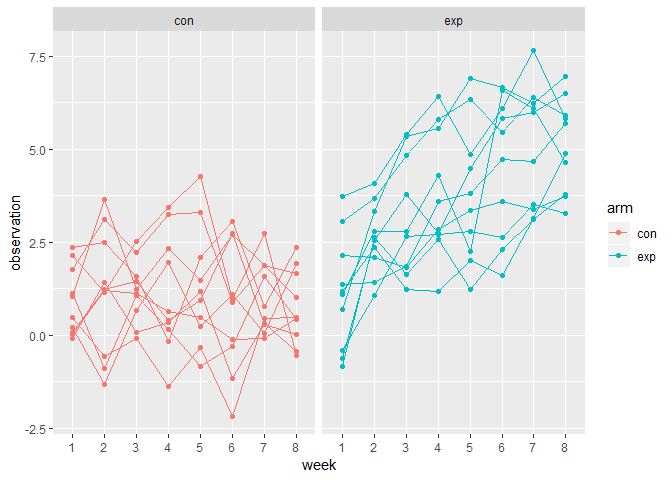
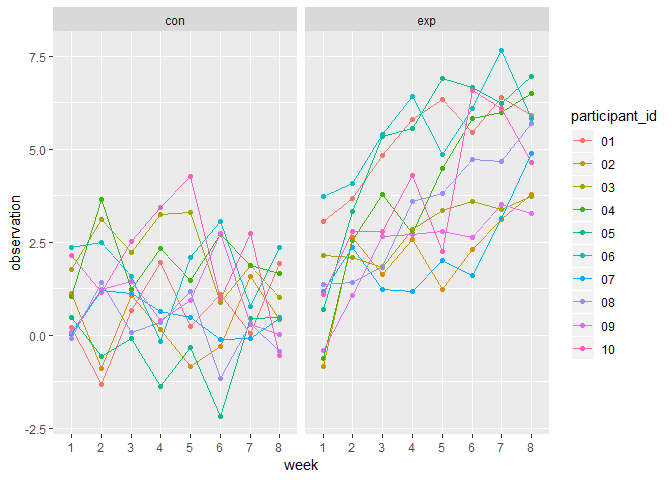
fixing problem 1 graph

diff --git a/p8105_hw5_as5457.md b/p8105_hw5_as5457.md
@@ -342,9 +342,9 @@ Make a spaghetti plot showing observations on each subject over time, and commen
 
 ``` r
 spaghetti = participants %>% 
-  mutate(participant_id = as.integer(participant_id),
+  mutate(participant_id = as.character(participant_id),
          arm = as.factor(arm)) %>% 
-  ggplot(aes(x = week, y = observation, color = arm, group = participant_id)) +
+  ggplot(aes(x = week, y = observation, color = participant_id, group = participant_id)) +
   geom_point() + 
   geom_line() +
   facet_grid(~arm)
@@ -395,4 +395,24 @@ homicide_totals = homicide_data %>%
   select(city_state, total_homicides, total_unsolved) %>% 
   unnest() %>% 
   mutate(total_homicides = n, total_unsolved = n1)
+homicide_total = homicide_totals %>% 
+  select(-n, -n1)
+homicide_total
 ```
+
+    ## # A tibble: 51 x 3
+    ##    city_state      total_homicides total_unsolved
+    ##    <chr>                     <int>          <int>
+    ##  1 Albuquerque, NM             378            146
+    ##  2 Atlanta, GA                 973            373
+    ##  3 Baltimore, MD              2827           1825
+    ##  4 Baton Rouge, LA             424            196
+    ##  5 Birmingham, AL              800            347
+    ##  6 Boston, MA                  614            310
+    ##  7 Buffalo, NY                 521            319
+    ##  8 Charlotte, NC               687            206
+    ##  9 Chicago, IL                5535           4073
+    ## 10 Cincinnati, OH              694            309
+    ## # ... with 41 more rows
+
+For the city of Baltimore, MD, use the prop.test function to estimate the proportion of homicides that are unsolved; save the output of prop.test as an R object, apply the broom::tidy to this object and pull the estimated proportion and confidence intervals from the resulting tidy dataframe.
